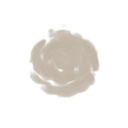
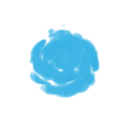
## [0.4.1] - 2018-07-13
### Changed
 - Energy Orb is now blue instead of gray

Changed region(s): [[0.2188, 0.2188, 0.7812, 0.7812]]

diff --git a/src/main/java/songstress/TheSongstressMod.java b/src/main/java/songstress/TheSongstressMod.java
@@ -86,12 +86,12 @@ public class TheSongstressMod implements EditKeywordsSubscriber, EditCharactersS
 	public static void initialize() {
 		logger.info("Initializing TheSongstress");
 		logger.info("Registering Color Cloud");
-		Color color = Color.LIGHT_GRAY.cpy();
+		Color color = new Color(0x1E90FFFF);
 		BaseMod.addColor(ColorEnum.Cloud.toString(), color, color, color, color, color, color, color,
-				"song/img/cards/512/bg_attack_cloud3.png", "song/img/cards/512/bg_skill_cloud2.png",
-				"song/img/cards/512/bg_power_cloud2.png", "song/img/cards/512/card_cloud_orb.png",
-				"song/img/cards/1024/bg_attack_cloud3.png", "song/img/cards/1024/bg_skill_cloud2.png",
-				"song/img/cards/1024/bg_power_cloud2.png", "song/img/cards/1024/card_cloud_orb.png");
+				"song/img/cards/512/bg_attack_cloud.png", "song/img/cards/512/bg_skill_cloud.png",
+				"song/img/cards/512/bg_power_cloud.png", "song/img/cards/512/card_cloud_orb2.png",
+				"song/img/cards/1024/bg_attack_cloud.png", "song/img/cards/1024/bg_skill_cloud.png",
+				"song/img/cards/1024/bg_power_cloud.png", "song/img/cards/1024/card_cloud_orb2.png");
 		BaseMod.subscribe(new TheSongstressMod());
 		BaseMod.subscribe(new HarpsichordHelper());
 	}

diff --git a/Changelog.md b/Changelog.md
@@ -8,6 +8,10 @@ Dates in this Changelog are yyyy-mm-dd (Year-Month-Day)
 
 ## [Unreleased]
 
+## [0.4.1] - 2018-07-13
+### Changed
+ - Energy Orb is now blue instead of gray
+
 ## [0.4.0] - 2018-07-13
 ### Added
  - Common Card Sour Note: Deal 7(10) damage and apply 2(3) Weak to all enemies. Song.
